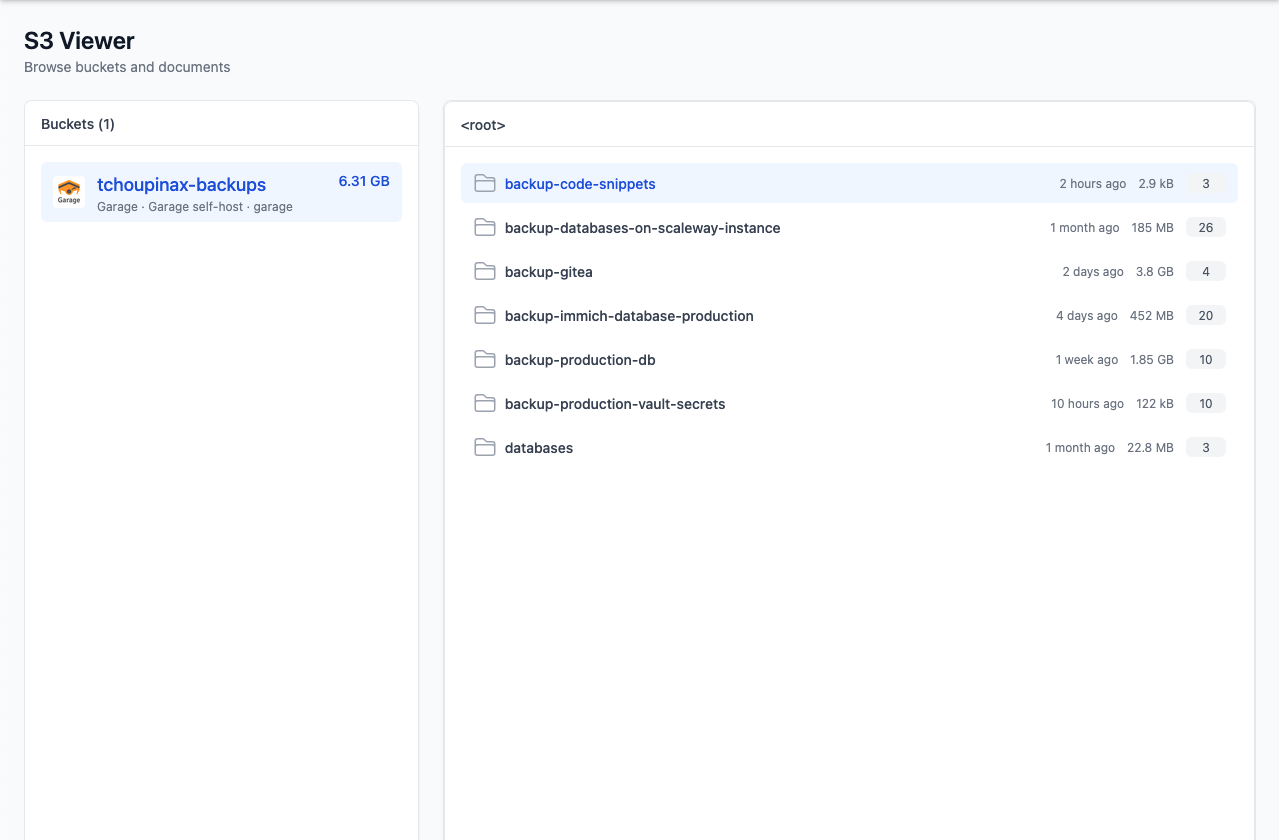
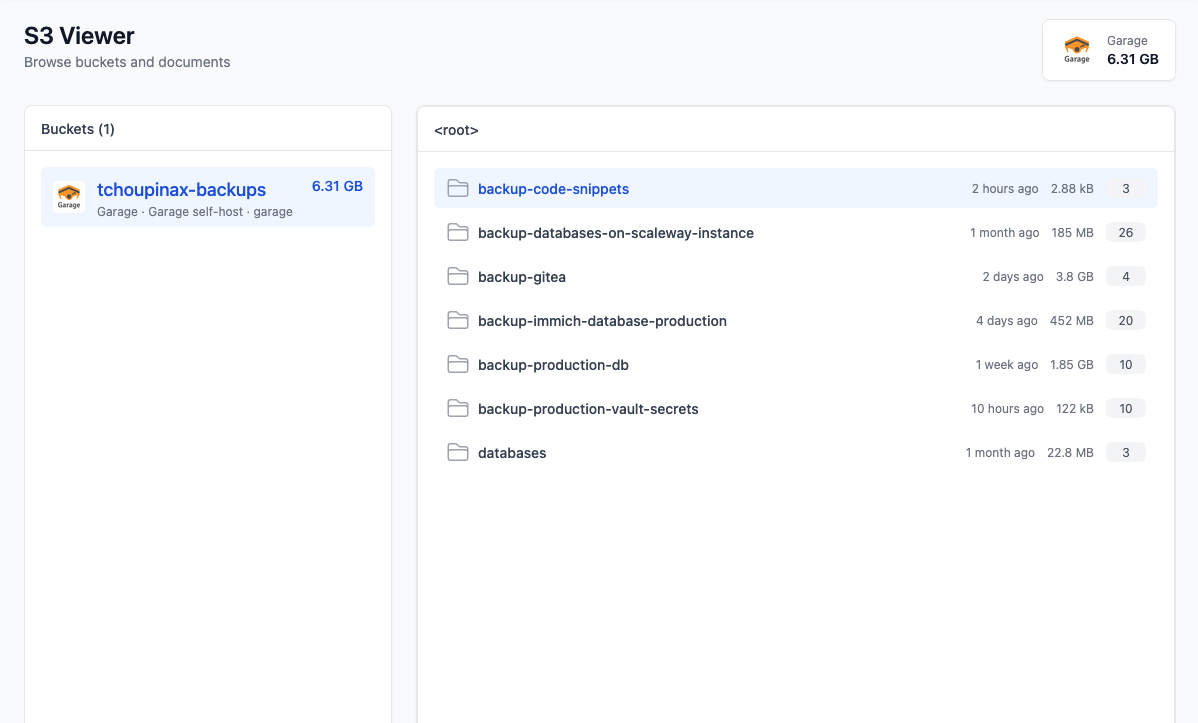
feat: display total size of files stored by cloud provider (#6)
* feat: display total size of files stored by cloud provider

* docs: update screenshot

diff --git a/pages/index.vue b/pages/index.vue
@@ -1,10 +1,35 @@
 <template>
   <div class="h-screen overflow-hidden bg-gray-50">
     <div class="flex flex-col h-full p-6 mx-auto max-w-8xl">
-      <header class="shrink-0">
-        <h1 class="text-2xl font-semibold text-gray-900">S3 Viewer</h1>
-        <p class="text-sm text-gray-500">Browse buckets and documents</p>
-      </header>
+<header class="flex items-start justify-between gap-6 shrink-0">
+  <div>
+    <h1 class="text-2xl font-semibold text-gray-900">S3 Viewer</h1>
+    <p class="text-sm text-gray-500">Browse buckets and documents</p>
+  </div>
+
+  <div class="flex gap-4">
+    <div
+      v-for="stat of stats"
+      :key="stat.cloudProvider.name"
+      class="flex items-center gap-3 px-4 py-3 transition bg-white border border-gray-200 rounded-lg shadow-sm hover:shadow"
+    >
+      <img
+        class="rounded size-9"
+        :src="stat.cloudProvider.logoUrl"
+        :alt="stat.cloudProvider.name"
+      />
+
+      <div class="flex flex-col leading-tight">
+        <span class="text-xs text-gray-500">
+          {{ stat.cloudProvider.name }}
+        </span>
+        <span class="text-sm font-semibold text-gray-900">
+          {{ stat.sizeHuman }}
+        </span>
+      </div>
+    </div>
+  </div>
+</header>
 
       <div
         v-if="error"
@@ -13,10 +38,16 @@
         {{ error }}
       </div>
 
-      <div class="grid flex-1 grid-cols-1 gap-6 mt-6 overflow-hidden lg:grid-cols-3">
-        <section class="flex flex-col overflow-hidden bg-white border rounded-lg shadow-sm">
+      <div
+        class="grid flex-1 grid-cols-1 gap-6 mt-6 overflow-hidden lg:grid-cols-3"
+      >
+        <section
+          class="flex flex-col overflow-hidden bg-white border rounded-lg shadow-sm"
+        >
           <div class="px-4 py-3 border-b shrink-0">
-            <h2 class="text-sm font-medium text-gray-700">Buckets ({{ buckets.length }})</h2>
+            <h2 class="text-sm font-medium text-gray-700">
+              Buckets ({{ buckets.length }})
+            </h2>
           </div>
 
           <div class="flex-1 p-4 overflow-y-auto">
@@ -159,6 +190,7 @@ const documentsCount = ref<number>(0);
 const currentDirectory = ref("<root>");
 const currentFiles = ref([]);
 const currentIndexes = ref<number[]>([]);
+const stats = ref();
 
 const loadingBuckets = ref(false);
 const loadingDocuments = ref(false);
@@ -188,7 +220,8 @@ const loadBuckets = async () => {
 
   try {
     const res = await $fetch("/api/buckets");
-    buckets.value = res.data;
+    buckets.value = res.data.buckets;
+    stats.value = res.data.stats;
   } catch (e: any) {
     error.value = e?.statusMessage || "Failed to load buckets";
   } finally {
@@ -236,7 +269,7 @@ onMounted(() => {
       const parts = localCurrentDirectory.split("/");
       for (const part of parts.slice(1)) {
         const folderIndex = currentFiles.value.findIndex(
-          (f) => f.name === part
+          (f) => f.name === part,
         );
         currentFiles.value = currentFiles.value[folderIndex]?.children ?? [];
         currentIndexes.value.push(folderIndex);
@@ -247,7 +280,7 @@ onMounted(() => {
 
 const handleDirectoryEntered = (folderName: string) => {
   const folderIndex = currentFiles.value.findIndex(
-    (f) => f.name === folderName
+    (f) => f.name === folderName,
   );
   const nodeName = currentFiles.value[folderIndex].name;
   currentFiles.value = currentFiles.value[folderIndex]?.children ?? [];
@@ -273,5 +306,4 @@ const handleDirectoryLeft = () => {
     .slice(0, -1)
     .join("/");
 };
-
 </script>

diff --git a/server/api/buckets.get.ts b/server/api/buckets.get.ts
@@ -8,9 +8,12 @@ import {
 import { match, P } from "ts-pattern";
 import { connections } from "~/server/utils/s3";
 import prettyBytes from "pretty-bytes";
+import { groupByFn } from "~/server/utils/functions";
 
 export default defineEventHandler(
-  async (): Promise<S3ViewerResponse<Array<S3ViewerBucket>>> => {
+  async (): Promise<
+    S3ViewerResponse<{ buckets: Array<S3ViewerBucket>; stats: {} }>
+  > => {
     const commmands = await Promise.all(
       connections.map(
         async ({ connection, organizationOrAccountName, id }) => ({
@@ -27,11 +30,38 @@ export default defineEventHandler(
       ),
     );
 
+    const buckets = (await Promise.all(commmands.map(mapToS3ViewerBuckets)))
+      .flat()
+      .sort((a, b) => (a.name > b.name ? 1 : -1));
+
+    function totalSizeByKey(
+      bucketsByKey: Record<string, S3ViewerBucket[]>,
+    ): Record<string, number> {
+      return Object.fromEntries(
+        Object.entries(bucketsByKey).map(([key, buckets]) => [
+          key,
+          buckets.reduce((sum, b) => sum + b.size, 0),
+        ]),
+      );
+    }
+
+    const stats = totalSizeByKey(
+      groupByFn(buckets, (b) => b.cloudProvider.name ?? ""),
+    );
+
     return {
       status: "OK",
-      data: (await Promise.all(commmands.map(mapToS3ViewerBuckets)))
-        .flat()
-        .sort((a, b) => (a.name > b.name ? 1 : -1)),
+      data: {
+        buckets,
+        stats: Object.keys(stats).map((key) => ({
+          cloudProvider: {
+            name: key || null,
+            logoUrl: getCloudProviderLogoUrl(key),
+          },
+          size: stats[key],
+          sizeHuman: prettyBytes(stats[key]),
+        })),
+      },
     };
   },
 );

diff --git a/server/utils/functions.ts b/server/utils/functions.ts
@@ -1,0 +1,13 @@
+export function groupByFn<T, K extends PropertyKey>(
+  array: T[],
+  fn: (item: T) => K,
+): Record<K, T[]> {
+  return array.reduce(
+    (acc, item) => {
+      const key = fn(item);
+      (acc[key] ||= []).push(item);
+      return acc;
+    },
+    {} as Record<K, T[]>,
+  );
+}
